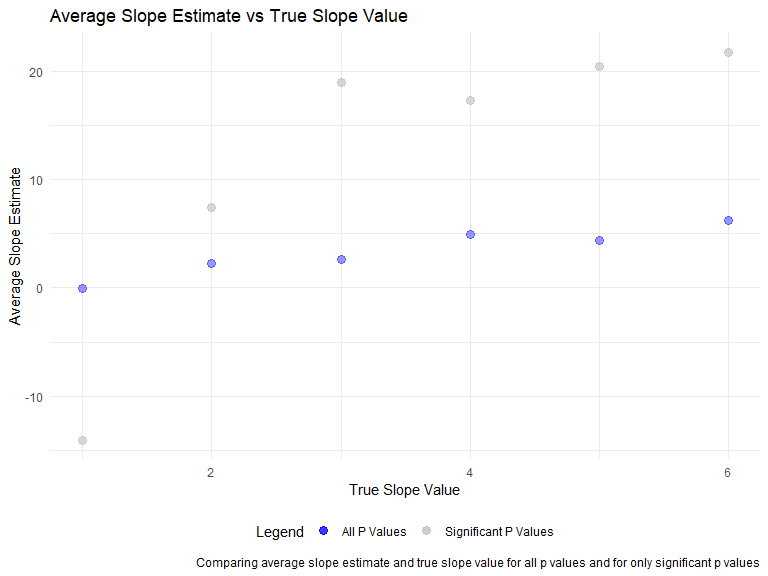
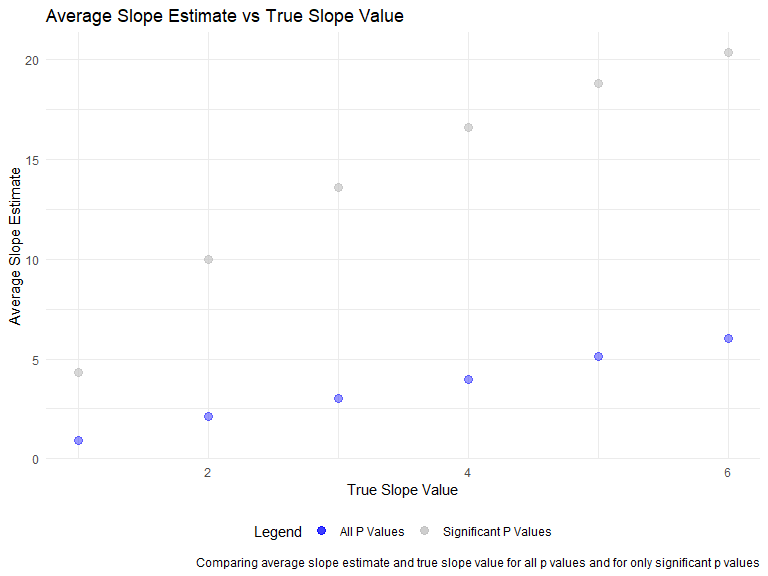
Ran simulation with 10k, just need to finalize descriptions.

diff --git a/p8105_hw5_jt3175.md b/p8105_hw5_jt3175.md
@@ -120,7 +120,7 @@ sim_regression = function(beta1) {
 
 # Generate 10k datasets, saving the estimate and the p value
 
-b1_0 = rerun(100, sim_regression(0)) %>% 
+b1_0 = rerun(10000, sim_regression(0)) %>% 
   bind_rows()
 
 # Generate 10k datasets, saving the estimate and p value when beta1 = 1 to 6
@@ -128,7 +128,7 @@ b1_0 = rerun(100, sim_regression(0)) %>%
 sim_results = 
   tibble(beta1_values = c(1, 2, 3, 4, 5, 6)) %>% 
   mutate(
-    output_list = map(.x = beta1_values, ~ rerun(100, sim_regression(beta1 = .x))),
+    output_list = map(.x = beta1_values, ~ rerun(10000, sim_regression(beta1 = .x))),
     output_df = map(output_list, bind_rows)
   ) %>% 
   select(-output_list) %>% 
